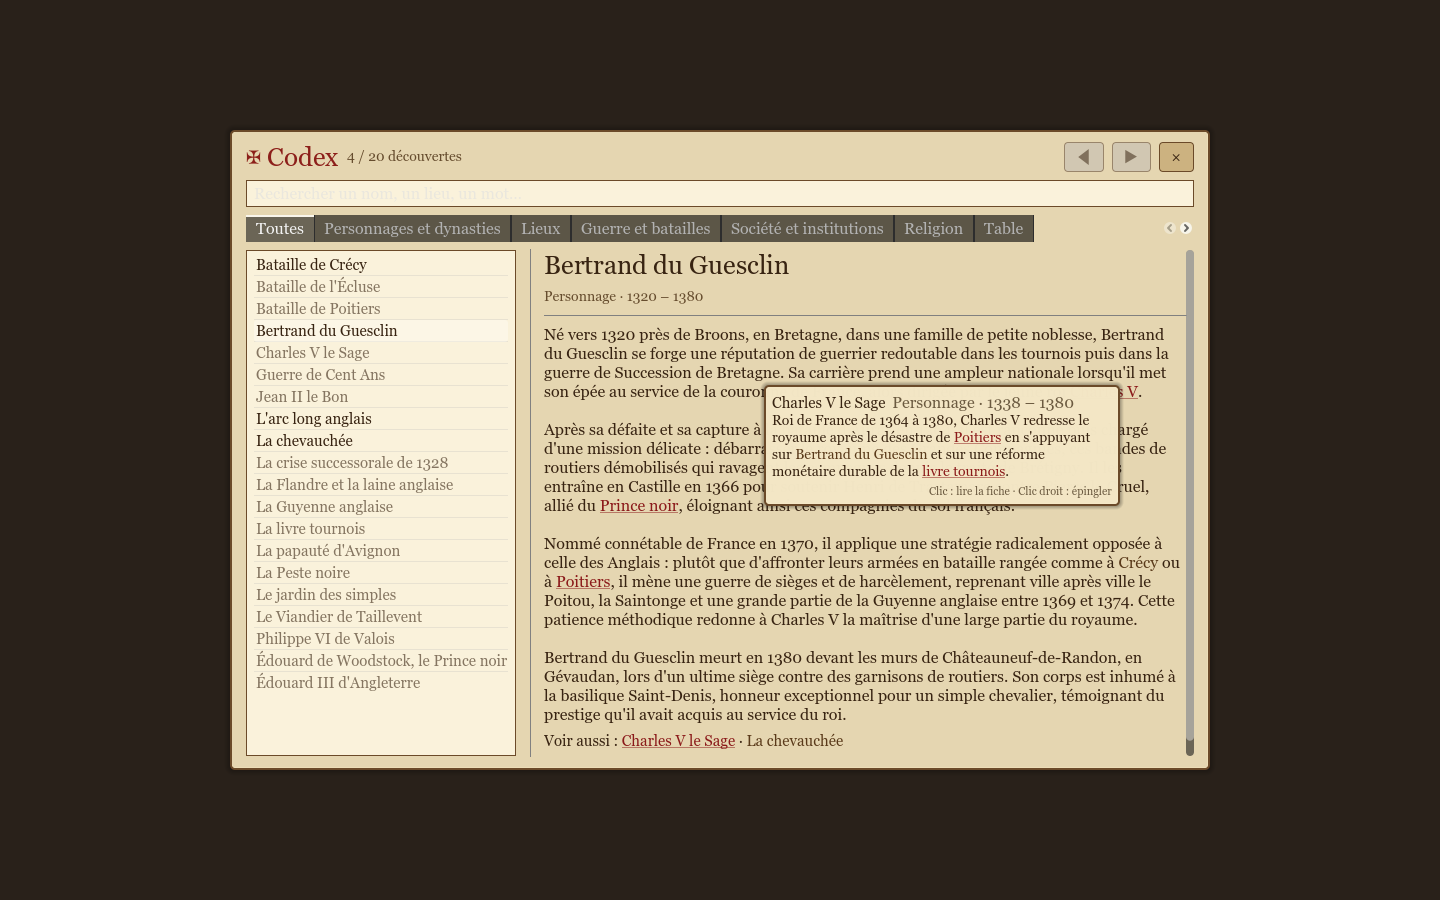
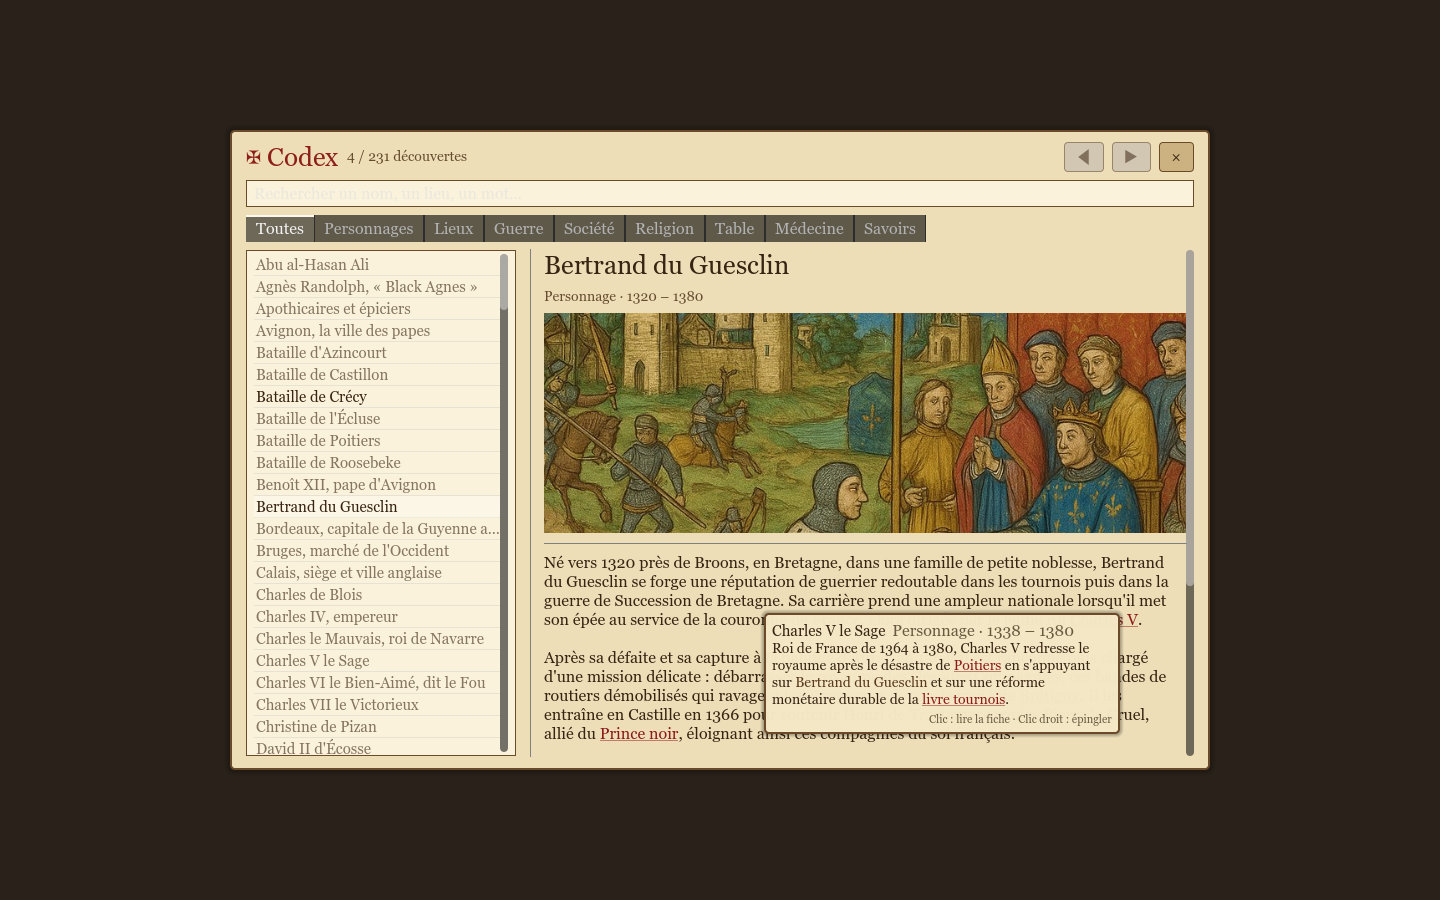
docs: session 5 complete (G5, Codex miniatures), status and resume notes

Changed region(s): [[0.1562, 0.2178, 0.8438, 0.84], [0.25, 0.1556, 0.3125, 0.1867]]

diff --git a/docs/wip/session-05.md b/docs/wip/session-05.md
@@ -18,23 +18,21 @@ dépenses dans `docs/budget.md`).
   `data/ai/alignment.json` ; régression : 38/40 graines avec les 4 grandes factions en vie en 1400
   (dbdcc69, détails dans `docs/wip/g4-burgundy.md` et `docs/status.md`).
 
-## À reprendre
-1. **Budget** : toutes les lignes sont écrites (cumul 15,13 $). Ajouter la sonde `image_config`
-   16:9 (0,04 $, non consignée) et vérifier contre le compteur OpenRouter
-   (`curl -s https://openrouter.ai/api/v1/credits -H "Authorization: Bearer $OPENROUTER_API_KEY"`,
-   dépense de session = total_usage − 80,3766).
-2. **Import Godot** : `godot --headless --path game --import`, commiter les `.import` des
-   portraits, illustrations et miniatures (nécessaires à l'export macOS), smoke test.
-3. **Agent G5** (branche `worktree-agent-a8e6ab2920478f32d`, worktree
-   `.claude/worktrees/agent-a8e6ab2920478f32d`, suivi `docs/wip/g5-neighbors.md` dans ce worktree) :
-   `are_neighbors` sur l'adjacence réelle de la carte + rééquilibrage (survie 40/40). S'il a été
-   interrompu, relancer un agent sur cette branche à partir de son fichier wip. Fusion : merger
-   main dans la branche dans le worktree, tests, puis `git merge --ff-only` dans main.
-4. **docs/status.md** : mettre à jour « Reste » (portraits faits), la limite M10 assets
-   (portraits), mentionner miniatures et illustrations ; `docs/manuel.md`/crédits si besoin
-   (images générées par openai/gpt-5-image-mini via OpenRouter).
-5. Crédit restant estimé ≈ 4 $ : idées — illustrations du Codex (231 fiches ≈ 10,6 $, donc un
-   sous-ensemble : lieux et batailles), illustrations de l'écran de chargement.
+## Reprise du 2026-09-24 (même jour) — tout est fait
+- Budget : sonde consignée, rapprochement avec le compteur OpenRouter en tête de `docs/budget.md`.
+- Import Godot : `.import` des portraits, illustrations, miniatures et Codex commités ; smoke OK.
+- G5 fusionné (d188f5c) : `are_neighbors` sur le graphe de la carte, réglages `data/ai/diplomacy.json`,
+  40/40 graines avec les 4 grandes factions en vie en 1400.
+- Codex : miniature en tête de fiche (`codex_window.gd`, `art_path_of`) ; 84 générées
+  (`cent-ans assets codex-art`, 4,03 $), 113 fiches reprennent l'image de leur `entity`. Hors lot :
+  personnages sans entité (17) et plantes (17), faute de crédit.
+- `docs/status.md` et crédits à jour. Cumul 19,20 $ / 50 $.
+
+## Suite possible
+- Crédit OpenRouter restant ≈ 0,56 $ (clé presque épuisée) : les 34 fiches du Codex sans image
+  (personnages, plantes : `cent-ans assets codex-art --category personnage,plante`, ≈ 1,6 $) quand
+  une clé sera rechargée.
+- Appels aux armes ×2 depuis G5 (voir `docs/wip/g5-neighbors.md`) : à surveiller.
 
 ## Attention
 - D'autres sessions commitent dans main en parallèle (« session 6 TW », « visual »…) : commiter

diff --git a/docs/status.md b/docs/status.md
@@ -15,7 +15,9 @@ Dernière mise à jour : 2026-09-24 (session 5 : portraits, miniatures, illustra
 - **Qualité** : 310 tests Rust, 87 tests Python, smoke Godot 20 étapes, clippy propre.
 - **Art** : 88/88 portraits, 117/117 miniatures de chronique (bandeau de la fenêtre de chronique,
   `cent-ans assets event-art`), 116 illustrations de l'encyclopédie (unités, bâtiments, technologies,
-  factions, `cent-ans assets illustrations`) ; 15,17 $ dépensés sur 50 $ (`docs/budget.md`).
+  factions, `cent-ans assets illustrations`), miniature en tête des 231 fiches du Codex (84 générées par
+  `cent-ans assets codex-art`, les autres reprennent l'image de leur `entity` ; capture
+  `docs/img/codex-window.png`) ; 19,20 $ dépensés sur 50 $ (`docs/budget.md`).
 - **Reste** : écarts d'équilibrage documentés plus bas (tableaux F4, G2, G4, G5) ; G5 : voisinage réel
   (graphe de la carte), 4 grandes factions en vie en 1400 sur 40/40 graines.
 - Plan et suivi de la finalisation : `docs/design/v2-finalisation.md`, `docs/wip/finalisation.md`.
